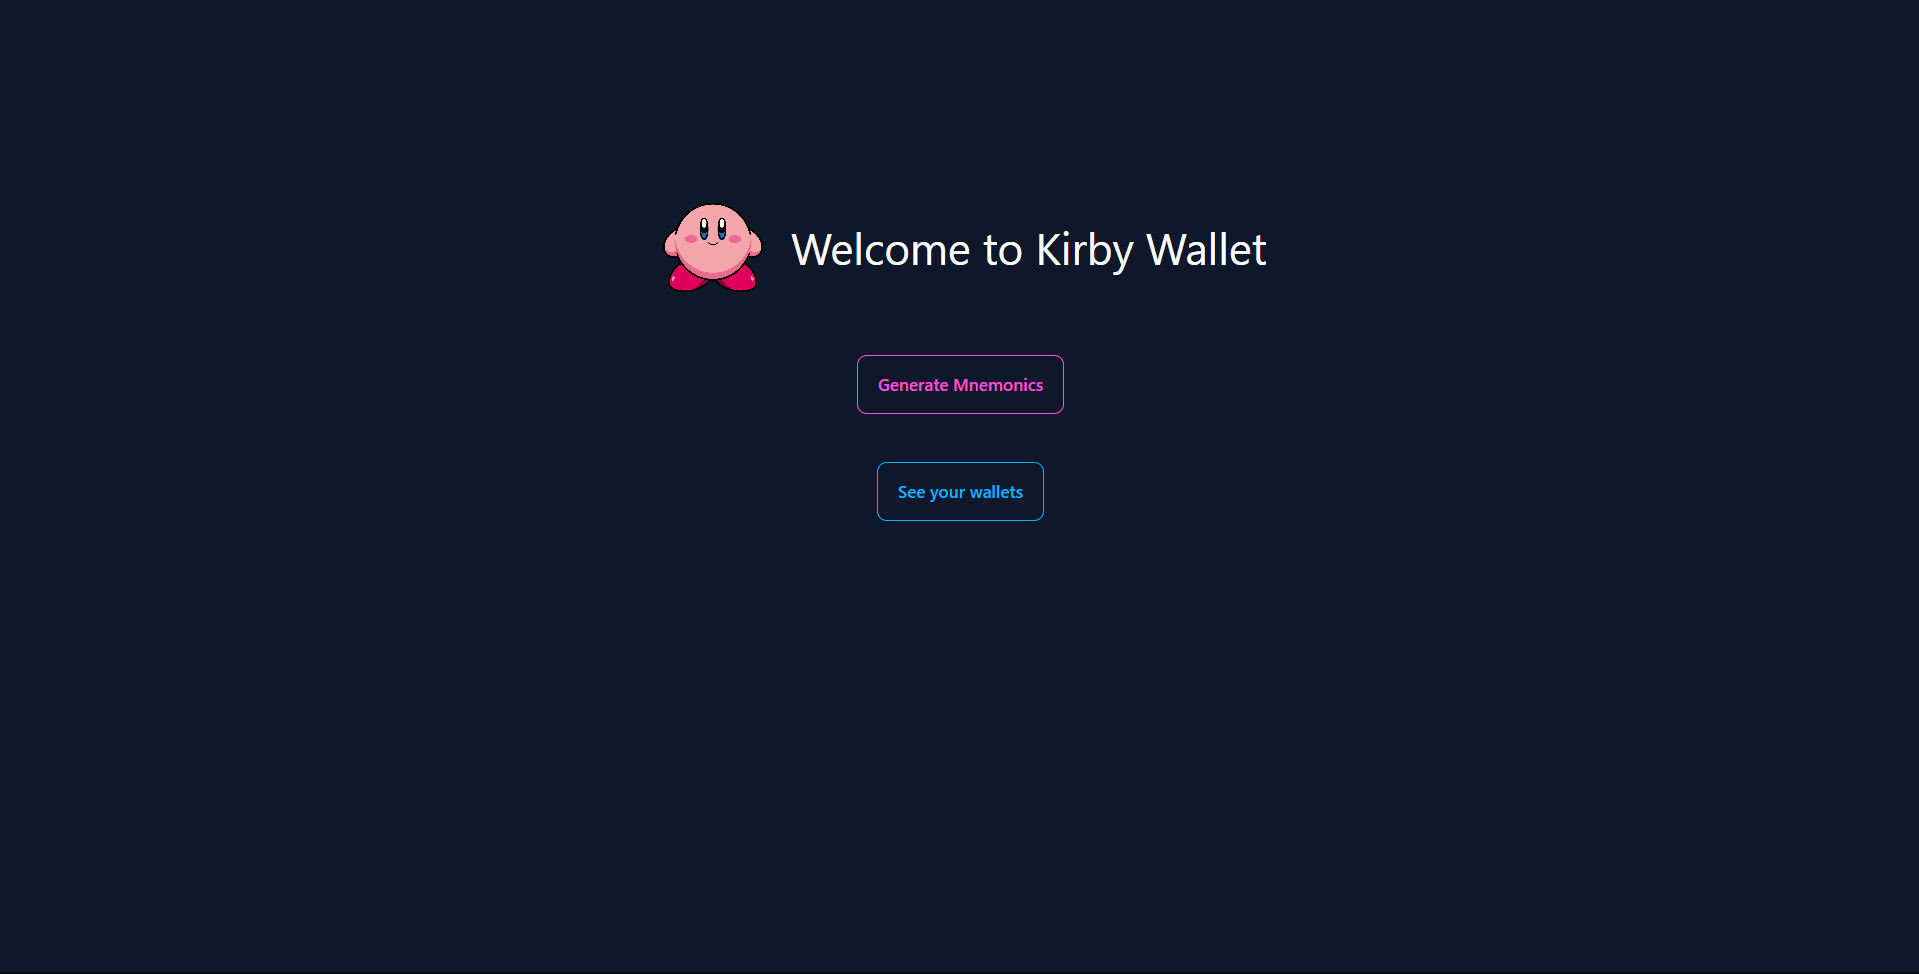
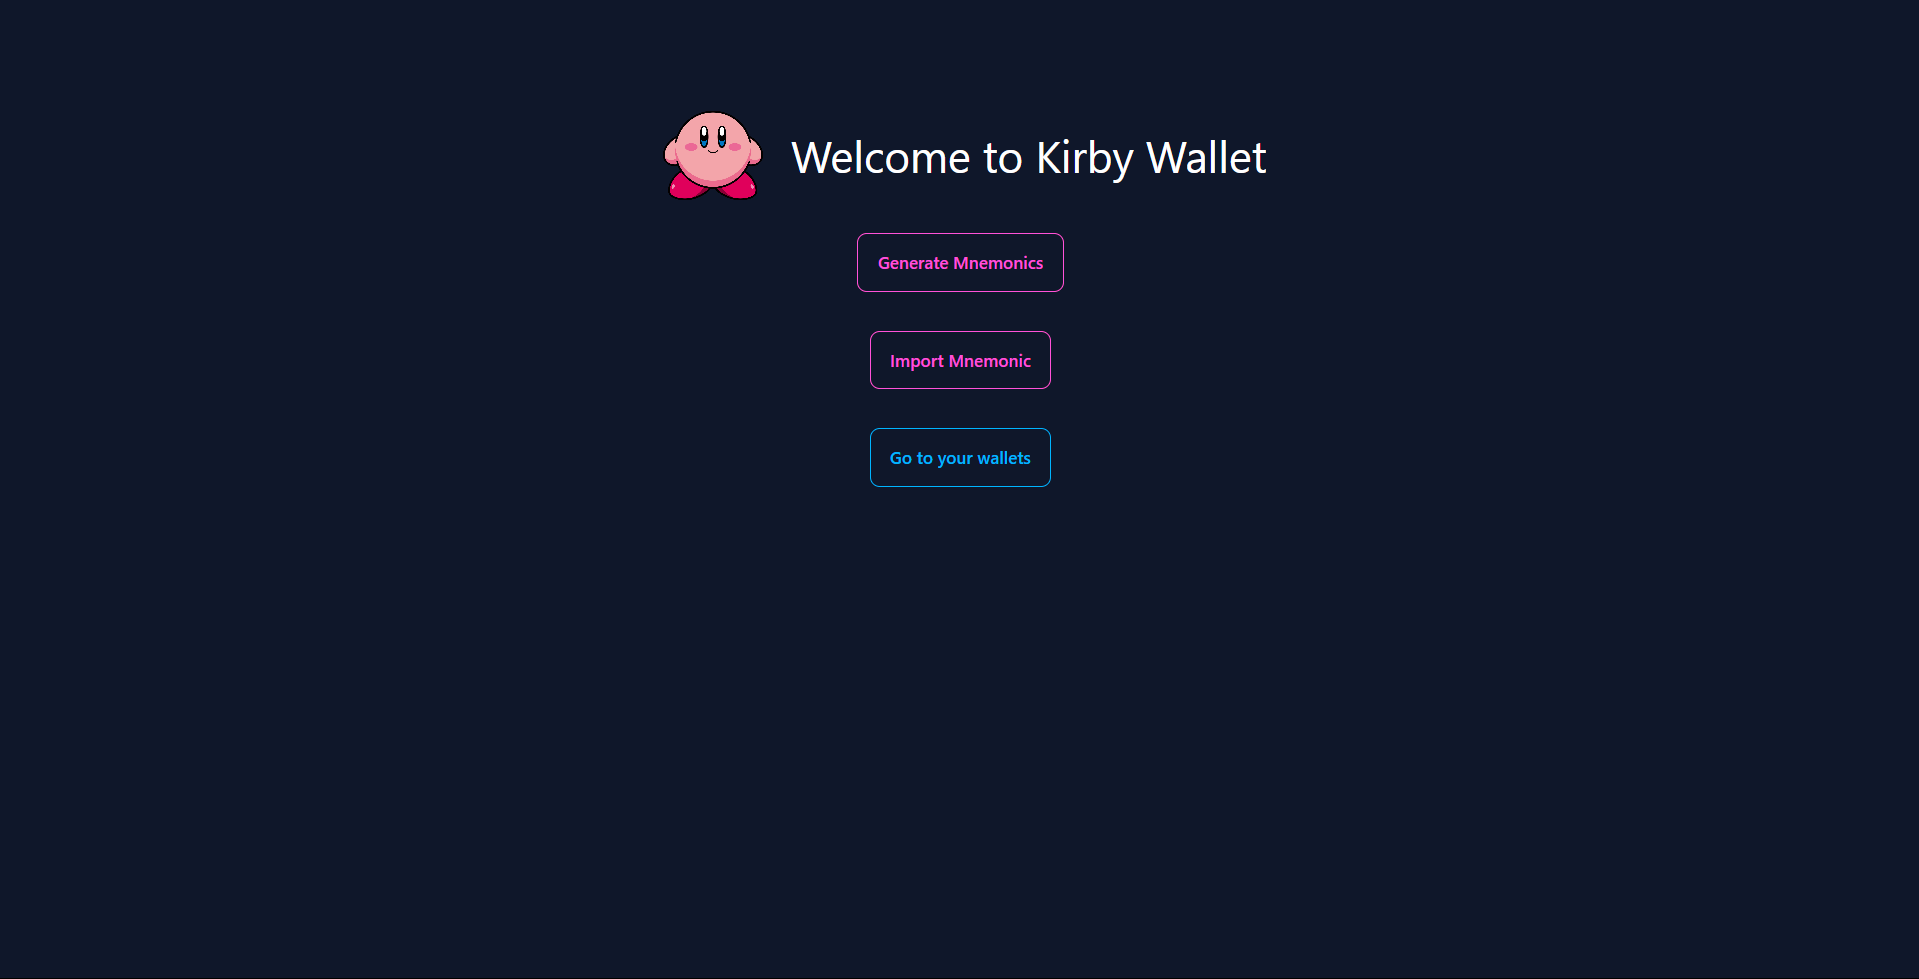
final_touches

Changed region(s): [[0.3382, 0.0924, 0.6764, 0.308], [0.4612, 0.462, 0.5534, 0.5236], [0.4612, 0.3388, 0.5534, 0.4004]]

diff --git a/README.md b/README.md
@@ -9,12 +9,16 @@
 # ScreenShots
 ![Wallet Image](./src/assets/pic1.png)
 ![Wallet Image](./src/assets/pic2.png)
+![Wallet Image](./src/assets/pic3.png)
 ## What does the application do?
 
 - Generate random mnemonic phrases with copy functionality.
+- Import a wallet from mnemonic phrase
 - Generate Solana wallets from a seed using a mnemonic phrase.
+- Airdrop yourself SOL from devnet, send SOL to addresses in the devnet
 - Generate Ethereum wallets from a seed using a mnemonic phrase.
-- Display private and public keys for the generated wallets.
+- Airdrop yourself ETH from Holešky, send ETH to addresses in the Holešky
+- Display private keys, public keys and balance for the generated wallets.
 
 ## Installation
 
